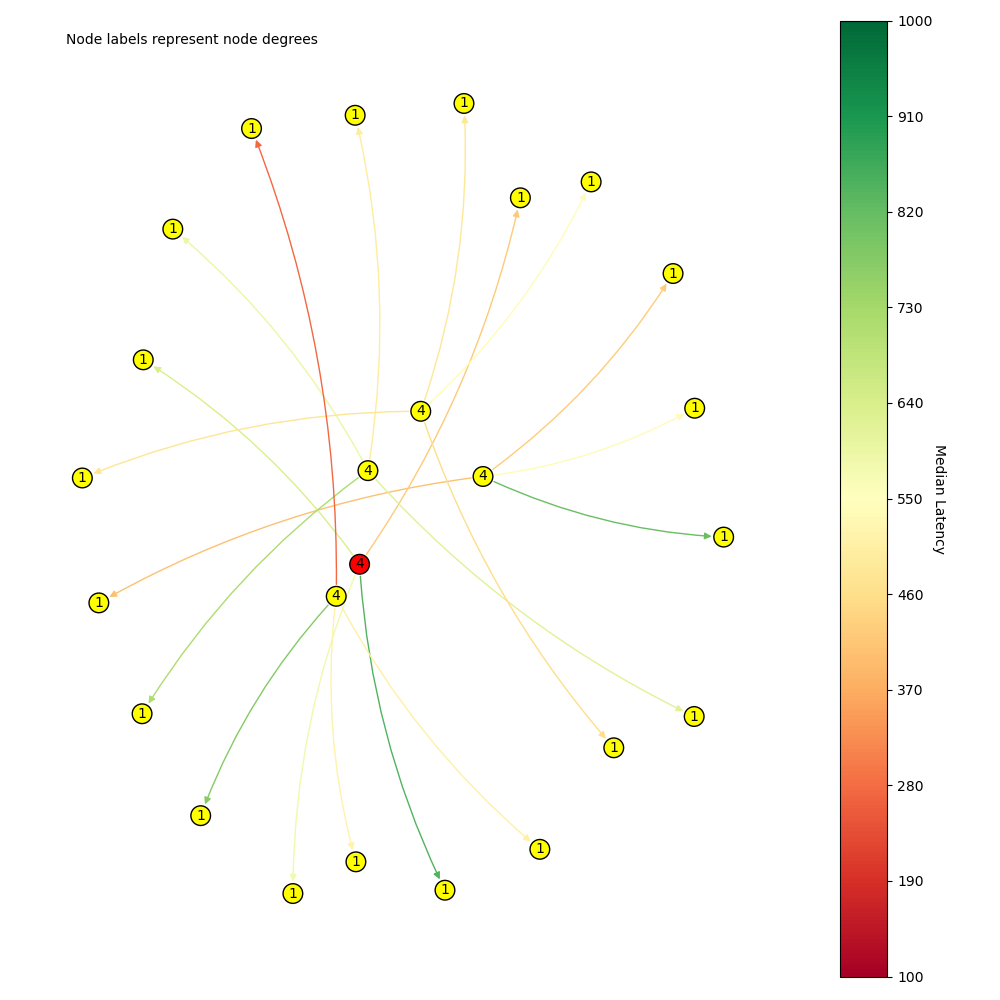
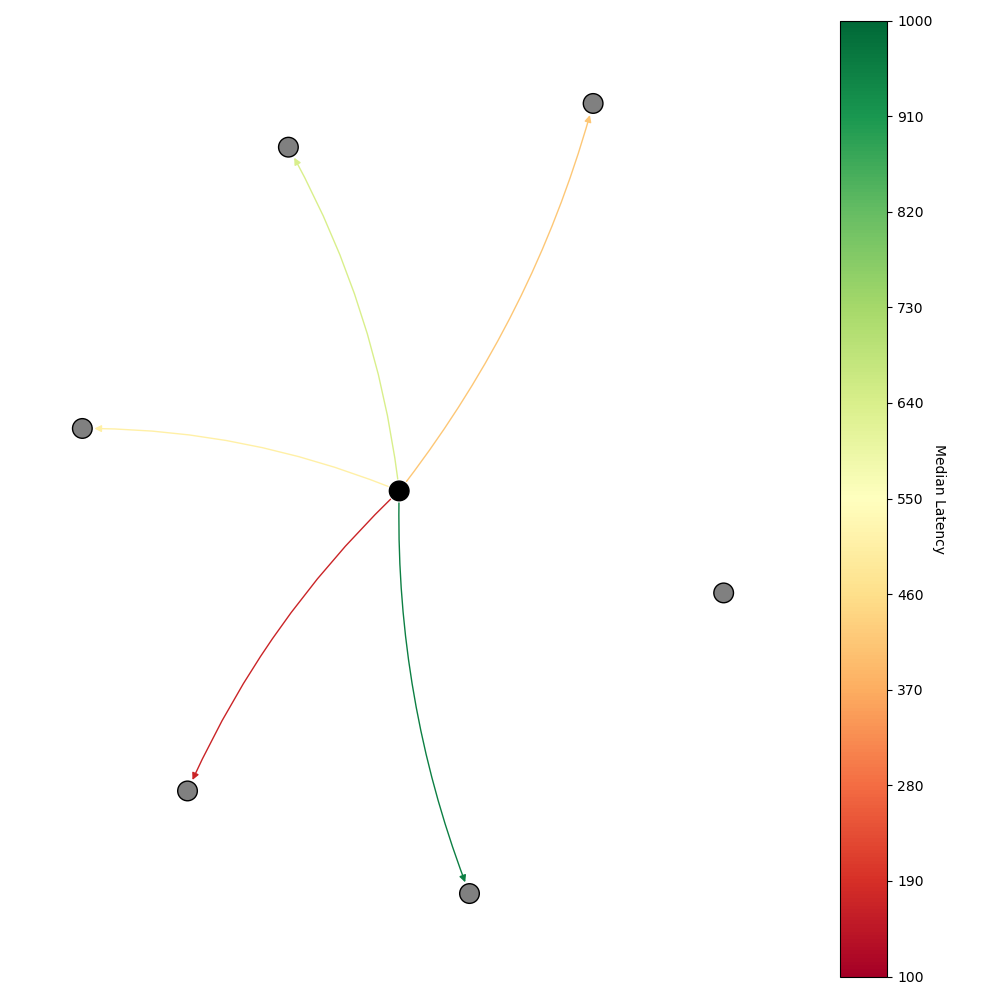
added net_viz function

diff --git a/peer-viz/net_viz_function.py b/peer-viz/net_viz_function.py
@@ -1,0 +1,69 @@
+import networkx as nx
+import matplotlib.pyplot as plt
+import matplotlib.cm as cm
+import matplotlib.colors as colors
+import statistics
+import numpy as np
+
+
+# Example Dictionary
+graph = {'api_host': {'peerid_1': [50, 75, 100, 50, 75], 
+                      'peerid_2': [999, 900], 
+                      'peerid_3': [500, 500, 300, 400], 
+                      'peerid_4': [],
+                      'peerid_5': [300, 400],
+                      'peerid_6': [600]}}
+
+def network_viz(graph):
+    
+    edges = []
+
+    # Extract the edge tuples and the edge attributes from the graph dictionary
+    for node, connections in graph.items():
+        for connection, data in connections.items():
+            if len(data) == 0:
+               median = float('NaN')
+            else:
+               median = statistics.median(data)
+            edges.append((node, connection, {'latency': data, 'median': median}))
+                
+    # Create a directed graph 
+    G = nx.DiGraph()
+    G.add_edges_from(edges)  
+          
+    # Set the color of each edge based on the median value of the data
+    edge_colors = []
+    for u, v, data in G.edges.data():
+        median = data['median']
+        # Use a color map to map the median value to a color
+        color = plt.cm.RdYlGn(median / 1000.0) 
+        edge_colors.append(color)
+    nx.set_edge_attributes(G, edge_colors, 'color')
+
+    # plot and save peer network 
+    plt.figure(figsize=(10, 10), dpi=100, frameon=True)
+
+    pos = nx.spring_layout(G)
+    color_map = ['black' if node == 'api_host' else 'gray' for node in G]
+
+    nx.draw_networkx_nodes(G, pos, node_color=color_map, node_size=200, edgecolors='black')
+    nx.draw_networkx_edges(G, pos, width=1, connectionstyle="arc3,rad=0.1", edge_color=edge_colors)
+    
+    # Create a ScalarMappable to map the edge colors to a col
+    sm = cm.ScalarMappable(cmap=plt.cm.RdYlGn, norm=colors.Normalize(vmin=100, vmax=1000))
+    sm.set_array([])
+
+    # Add a colorbar to the plot
+    cbar = plt.colorbar(sm, ticks= np.linspace(100,1000,11)) 
+    cbar.set_label('Median Latency', rotation=270, labelpad=10)
+           
+    plt.axis('off')
+    plt.tight_layout()
+    plt.savefig("net_viz.pdf", pad_inches=0)
+    plt.savefig("net_viz.png", pad_inches=0)
+    plt.show()
+
+
+network_viz(graph)
+
+

diff --git a/peer-viz/peer_viz.py b/peer-viz/peer_viz.py
@@ -86,9 +86,10 @@ if __name__ == "__main__":
     # my PID should never appear as one of my peers
     assert(my_pid not in api_host_peers)
     
-    #print(api_host_peers)
-    print(len(api_host_peers))
-    
+    # Log the length of api_host peers 
+    logging.info("Number of Peers: {}".format(len(api_host_peers)))
+    print("Number of Peers: {}".format(len(api_host_peers)))
+        
     # send a meesage to ourselves through a random peer
     peerId  = random.choice(api_host_peers)
     send_url = "http://{}:3001/api/v2/node/ping/".format(api_host)
@@ -107,9 +108,9 @@ if __name__ == "__main__":
                                      headers=headers,
                                      data=payload)
     
-    print(ping_response.status_code)
+    print("Ping Status Code: {}".format(ping_response.status_code))
     latency = json.dumps(ping_response.json()['latency'])
-    print(latency)
+    print("Latency: {}".format(latency))
     logging.info("Latency: {}".format(latency))
     
     

diff --git a/peer-viz/net_viz.py b/peer-viz/net_viz.py
@@ -41,15 +41,16 @@ for i in range(1, num_dicts+1):
 # Combine a list of dictionaries into a single dictionary 
 combined = {k: v for d in dicts for k, v in d.items()}
 
-# Create a graph dictionary 
-graph = {'Network': combined}
+# Create a graph dictionary
+graph = {'Network': combined} 
+graph = dicts[0]
 print(graph)
 
 # Create an empty list to store the edge tuples
 edges = []
 
 # Extract the edge tuples and the edge attributes from the graph dictionary
-for node, connections in graph['Network'].items():
+for node, connections in graph.items():
     for connection, data in connections.items():
         # Compute the median value of the data
         median = statistics.median(data)
